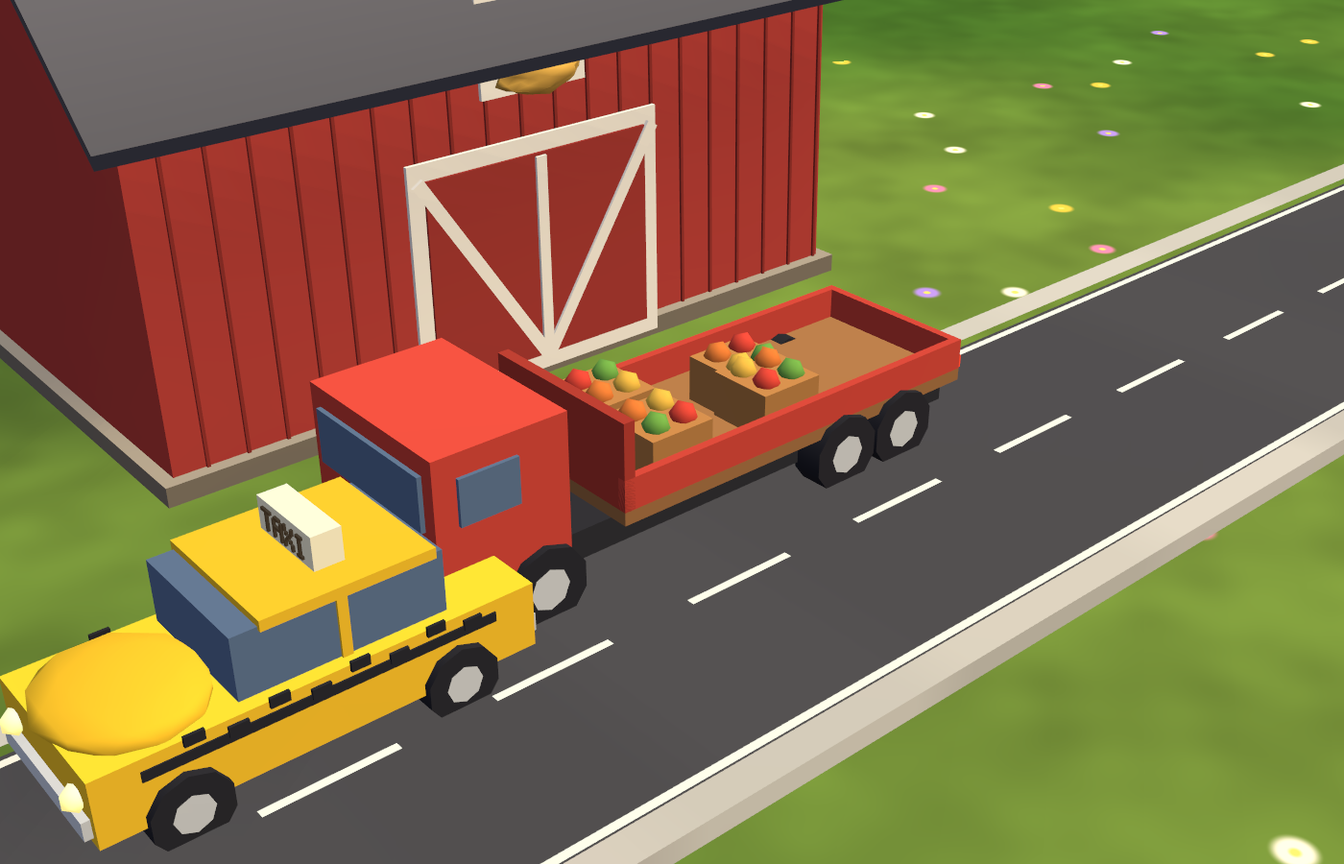
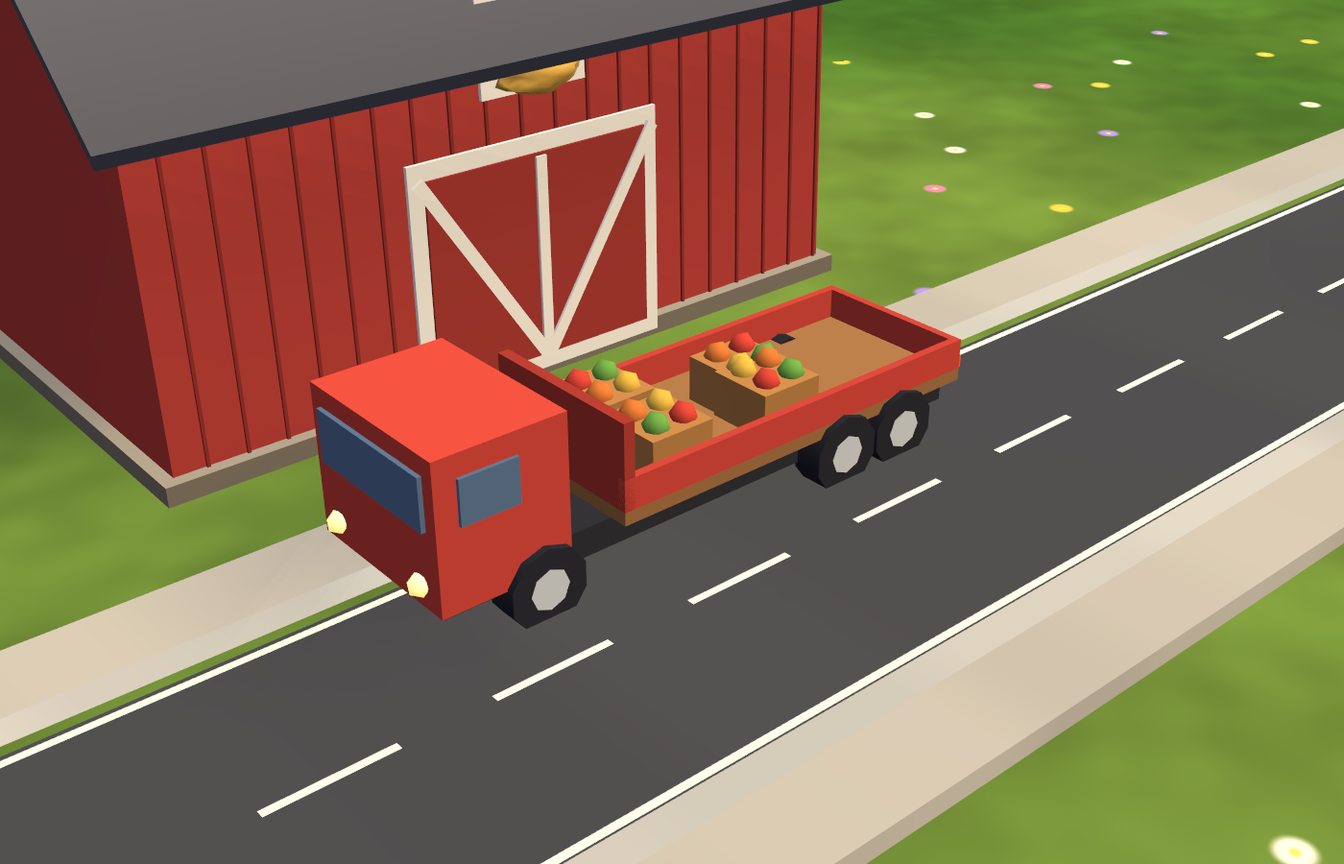
Pavements and zebra crossings: people walk on the pavement and cross at the zebra
- Streets and lanes have a 1.2 cm paved pavement beyond each kerb (highways don't); buildings and trees keep off it,
  and buildings beside a street line up behind it
- Walking: pavements and paths are easy, a carriageway is costly to walk along and crossed where it must be, a zebra
  crossing is easy - so routes keep to the pavement and cross at a zebra when one is near. Corners by a road are no
  longer rounded off across the carriageway
- Zebra crossing (Small): point at a street and it goes across it - white bars on the asphalt and a striped post with
  an orange globe at each kerb. Cars already stop for anyone on the road ahead
- Living test (a walk to a café across the street: 87 s on the pavement, 4 s on the zebra, 4 s in the road beside it)
  and a render (living-street-zebra.png)

Changed region(s): [[0.0, 0.56, 0.3993, 0.9956], [0.4607, 0.4978, 1.0, 1.0], [0.645, 0.1556, 1.0, 0.4044]]

diff --git a/Assets/Wonderland/Editor/WonderlandJourney.Living.cs b/Assets/Wonderland/Editor/WonderlandJourney.Living.cs
@@ -41,6 +41,8 @@ namespace Wonderland.Editor
             catch (Exception e) { Fail("Exception: " + e); }
             try { StrictGrid(); }
             catch (Exception e) { Fail("Exception: " + e); }
+            try { Pavements(); }
+            catch (Exception e) { Fail("Exception: " + e); }
             try { Soak(); }
             catch (Exception e) { Fail("Exception: " + e); }
             BuildGrid.Snap = true;
@@ -658,6 +660,40 @@ namespace Wonderland.Editor
             UnityEngine.Object.DestroyImmediate(w.gameObject);
         }
 
+        /// <summary>
+        /// Pavements and zebra crossings: streets have a pavement either side; someone walking to a café across the street
+        /// keeps to the pavement and crosses at the zebra crossing, hardly setting foot on the carriageway otherwise.
+        /// </summary>
+        private static void Pavements()
+        {
+            var w = Scratch("Pavements", 600f);
+            var t = w.Terrain;
+            w.BuildPath(Line(t, new Vector2(-0.7f, 0f), new Vector2(0.7f, 0f)), PathKind.Road);
+            w.PlaceHouse(new HouseInstance { x = -0.5f, z = -0.13f, rotation = 180f, variant = Catalog.Cottage });
+            string cafe = w.PlaceHouse(new HouseInstance { x = 0.5f, z = 0.13f, variant = Catalog.Cafe });
+            var z = w.ZebraSnap(t.PointAt(0.05f, 0.01f));
+            string zebra = z.HasValue ? w.PlaceHouse(z.Value) : "no street";
+            var pave = new Vector2(0f, -0.036f); var road = new Vector2(0f, 0.005f);
+            Check(cafe == null && zebra == null && w.Paths.Walking(pave) == 1 && w.Paths.Walking(road) == 2 && w.Paths.Walking(new Vector2(z.Value.x, 0.01f)) == 3,
+                $"A street with a pavement either side and a zebra crossing ({w.Paths.Walking(pave)} on the pavement, {w.Paths.Walking(road)} in the road, {(z.HasValue ? w.Paths.Walking(new Vector2(z.Value.x, 0.01f)) : -1)} on the zebra){cafe ?? ""}{zebra ?? ""}");
+            w.PlacePerson(new Vector3(-0.45f, 0f, -0.06f), 1, 888);
+            w.People.Grid.Complete(); w.Clock.Hour = 10f; w.People.Step(Dt);
+            int ci = w.Buildings.Houses.FindIndex(h => h.variant == Catalog.Cafe);
+            w.People.Deciders.Add(new SendOnce { Seed = 888, House = ci });
+            float onRoad = 0f, onPavement = 0f, onZebra = 0f, walking = 0f; var roadSpots = new List<string>();
+            Live(w, 150f, s =>
+            {
+                int i = w.People.IndexOfSeed(888);
+                if (i < 0 || w.People.StateOf(i) != PeopleSystem.Activity.Walking) return;
+                walking += Dt;
+                var at = w.People.PositionOf(i);
+                switch (w.Paths.Walking(at)) { case 1: onPavement += Dt; break; case 2: onRoad += Dt; if (roadSpots.Count < 12 && Mathf.Repeat(s, 1f) < Dt) roadSpots.Add($"({at.x:0.00}, {at.y:0.000})"); break; case 3: onZebra += Dt; break; }
+            });
+            Check(onZebra > 0f && onPavement > walking * 0.4f && onRoad < walking * 0.12f,
+                $"Walking to the café across the street they keep to the pavement and cross at the zebra ({onPavement:0} s on the pavement, {onZebra:0.0} s on the zebra, {onRoad:0.0} s in the road, of {walking:0} s walking; in the road at {string.Join(" ", roadSpots)})");
+            UnityEngine.Object.DestroyImmediate(w.gameObject);
+        }
+
         /// <summary>The living world's buildings in a row, fronts to the camera (docs/renders/living-buildings*.png).</summary>
         public static void LivingGallery()
         {
@@ -811,6 +847,19 @@ namespace Wonderland.Editor
             for (int k = 0; k < 120; k++) foreach (var ps in ww.Streams.GetComponentsInChildren<ParticleSystem>()) ps.Simulate(1f / 30f, true, false);
             WonderlandRenders.Capture(cam, "living-river-waterfall.png", 1400, 900);
             Debug.Log($"Living renders: water ({ww.Streams.Waterfalls} falls)");
+            // A street with its pavements and a zebra crossing, villagers on the pavement.
+            var sw = Scratch("Street render", 240f);
+            sw.Sky.Shown = false;
+            var st = sw.Terrain;
+            sw.BuildPath(Line(st, new Vector2(-0.6f, 0f), new Vector2(0.6f, 0f)), PathKind.Road);
+            foreach (var (x, z, r, v) in new[] { (-0.2f, 0.13f, 0f, Catalog.Bakery), (0.05f, 0.13f, 0f, Catalog.Cafe), (0.3f, 0.13f, 0f, Catalog.Grocer), (-0.15f, -0.13f, 180f, Catalog.Townhouse), (0.15f, -0.13f, 180f, Catalog.Cottage) })
+                sw.PlaceHouse(new HouseInstance { x = x, z = z, rotation = r, variant = v });
+            var zc = sw.ZebraSnap(st.PointAt(0f, 0f)); if (zc.HasValue) sw.PlaceHouse(zc.Value);
+            for (int k = 0; k < 4; k++) sw.PlacePerson(new Vector3(-0.15f + k * 0.08f, 0f, k % 2 == 0 ? -0.038f : 0.038f), k, 900 + k);
+            var focus2 = sw.transform.TransformPoint(st.PointAt(0f, 0f));
+            cam.transform.position = focus2 + new Vector3(-0.04f, 0.17f, -0.07f);
+            cam.transform.rotation = Quaternion.LookRotation(focus2 - cam.transform.position);
+            WonderlandRenders.Capture(cam, "living-street-zebra.png", 1400, 900);
             if (Application.isBatchMode) EditorApplication.Exit(0);
         }
     }

diff --git a/Assets/Wonderland/Scripts/World/PathSystem.Roads.cs b/Assets/Wonderland/Scripts/World/PathSystem.Roads.cs
@@ -150,8 +150,23 @@ namespace Wonderland
             var normal = Vector2.Dot(p - q, right) >= 0f ? right : -right;
             float s = Vector2.Dot(q, t);
             q += t * (Mathf.Round(s / BuildGrid.Size) * BuildGrid.Size - s);
-            at = q + normal * (hw + depth + 0.006f);
+            at = q + normal * (hw + Pavement(l.kind) + depth + 0.006f);
             yaw = Mathf.Atan2(normal.x, normal.y) * Mathf.Rad2Deg;   // (a building's front is its -Z: it looks back along -normal, at the road)
+            return true;
+        }
+
+        /// <summary>The point on the street nearest <paramref name="p"/> (within reach) and the way along it: a crossing's yaw.</summary>
+        public bool AcrossRoad(Vector2 p, out Vector2 at, out float yaw)
+        {
+            at = p; yaw = 0f;
+            float d = Query(p, 0.08f, k => IsCarWay(Lines[k].kind) && Lines[k].kind != (int)PathKind.Highway, out int li);
+            if (li < 0 || d > HalfWidth(Lines[li].kind) + 0.04f) return false;
+            var l = Lines[li];
+            int best = 0; float bestD = float.MaxValue;
+            for (int i = 0; i < l.points.Count; i++) { float q2 = (l.points[i] - p).sqrMagnitude; if (q2 < bestD) { bestD = q2; best = i; } }
+            var t = Tangent(l, best);
+            at = l.points[best];
+            yaw = Mathf.Atan2(t.x, t.y) * Mathf.Rad2Deg;   // (its local Z along the street, its long side - local X - across it)
             return true;
         }
 
@@ -353,6 +368,7 @@ namespace Wonderland
         /// <summary>A point along a road for its mesh: where, which way, how high the (flat) road surface is there, how far along.</summary>
         private struct RoadSample { public Vector2 P, T; public float Y, S; public bool Junction; }
 
+        private static readonly Color Paving = new(0.78f, 0.75f, 0.7f);
         private const float KerbHeight = 0.0012f, Skirt = 0.004f, RoadLift = 0.0016f;
 
         /// <summary>
@@ -417,13 +433,15 @@ namespace Wonderland
             float hw = HalfWidth(l.kind);
             bool highway = l.kind == (int)PathKind.Highway;
             var samples = RoadSamples(l);
-            // Cross-section strips, left to right: skirt, kerb top, kerb face, asphalt, kerb face, kerb top, skirt.
-            // (offset, height above the road, and the next corner's) - kerbs drop to road level inside junctions.
+            // Cross-section strips, left to right: skirt, pavement, kerb top, kerb face, asphalt, kerb face, kerb top,
+            // pavement, skirt (offset, height above the road, and the next corner's) - kerbs drop to road level inside
+            // junctions. Streets and lanes have a pavement either side for people to walk on; highways don't.
+            float pw = Pavement(l.kind);
             (float x0, float h0, float x1, float h1, bool kerb)[] strips =
             {
-                (-hw, -Skirt, -hw, KerbHeight, true), (-hw, KerbHeight, -hw + KerbWidth, KerbHeight, true), (-hw + KerbWidth, KerbHeight, -hw + KerbWidth, 0f, true),
+                (-hw - pw, -Skirt, -hw - pw, KerbHeight, true), (-hw - pw, KerbHeight, -hw, KerbHeight, true), (-hw, KerbHeight, -hw + KerbWidth, KerbHeight, true), (-hw + KerbWidth, KerbHeight, -hw + KerbWidth, 0f, true),
                 (-hw + KerbWidth, 0f, hw - KerbWidth, 0f, false),
-                (hw - KerbWidth, 0f, hw - KerbWidth, KerbHeight, true), (hw - KerbWidth, KerbHeight, hw, KerbHeight, true), (hw, KerbHeight, hw, -Skirt, true),
+                (hw - KerbWidth, 0f, hw - KerbWidth, KerbHeight, true), (hw - KerbWidth, KerbHeight, hw, KerbHeight, true), (hw, KerbHeight, hw + pw, KerbHeight, true), (hw + pw, KerbHeight, hw + pw, -Skirt, true),
             };
             int count = samples.Count, last = l.closed ? count : count - 1;
             foreach (var (x0, h0, x1, h1, kerb) in strips)
@@ -436,7 +454,8 @@ namespace Wonderland
                     bool flat = sm.Junction;   // inside a junction: all asphalt at road level
                     float a = flat ? Mathf.Min(h0, 0f) : h0, c = flat ? Mathf.Min(h1, 0f) : h1;
                     float y = sm.Y + RoadLift;
-                    var colour = kerb && !flat ? Pal.Shade(KerbStone, 0.95f + 0.1f * Noise.Hash(i / 4, (int)(x0 * 1000f), 7)) : Pal.Shade(Asphalt, 0.97f + 0.05f * Noise.Hash(i / 3, 1, 3));
+                    bool paving = Mathf.Abs(x0) >= hw - 1e-5f && Mathf.Abs(x1) >= hw - 1e-5f && pw > 0f;
+                    var colour = kerb && !flat ? (paving ? Pal.Shade(Paving, 0.94f + 0.08f * Noise.Hash(i / 2, (int)(x0 * 1000f), 11)) : Pal.Shade(KerbStone, 0.95f + 0.1f * Noise.Hash(i / 4, (int)(x0 * 1000f), 7))) : Pal.Shade(Asphalt, 0.97f + 0.05f * Noise.Hash(i / 3, 1, 3));
                     var q0 = sm.P + right * x0; var q1 = sm.P + right * x1;
                     var p0 = new Vector3(q0.x, y + a, q0.y); var p1 = new Vector3(q1.x, y + c, q1.y);
                     var along = new Vector3(sm.T.x, 0f, sm.T.y);

diff --git a/Assets/Wonderland/Scripts/World/WonderlandWorld.cs b/Assets/Wonderland/Scripts/World/WonderlandWorld.cs
@@ -128,6 +128,7 @@ namespace Wonderland
             Traffic = Child<TrafficSystem>("Traffic");
             Traffic.Init(this, materials.Lit);
             Traffic.FareAlive = seed => People.IndexOfSeed(seed) >= 0;
+            Paths.OnCrossing = OnZebra;
             Traffic.Operating = house => People.OnTractor(house);
             Traffic.FarmerStyle = house => People.WorkerOf(house).style;
             Traffic.FarmerSeed = house => People.WorkerOf(house).seed;
@@ -1140,13 +1141,14 @@ namespace Wonderland
             if (boat >= 0) return Boats.Validate(new Vector2(h.x, h.z), h.rotation + 180f, boat);
             if (h.variant == Catalog.Jetty && ValidateJetty(h) is { } jetty) return jetty;
             if (h.variant == Catalog.Harbour && ValidateHarbour(h) is { } harbour) return harbour;
+            if (h.variant == Catalog.Zebra && !(Paths.WayDistance(new Vector2(h.x, h.z), out int zk) < -0.01f && PathSystem.IsCarWay(zk))) return "A zebra crossing goes across a street";
             string error = (Catalog.IsStation(h.variant) ? ValidateStation(h) : null) ?? Buildings.Validate(h, ignore, p => Track.DistanceTo(new Vector3(p.x, 0f, p.y)));
             if (error == null)
                 foreach (var p in BuildingSystem.FootprintSamples(h))
                 {
                     if (Streams.IsWet(p, 0.01f)) return "That's a stream";
                     if (Paths.NearBarrier(p, 0.004f)) return "That's a fence";
-                    if (!Catalog.Get(h.variant).Small && Paths.WayDistance(p, out int kind) < -0.004f) return kind == 0 ? "That's the road" : "That's the path";
+                    if (!Catalog.Get(h.variant).Small && Paths.WayDistance(p, out int kind) < PathSystem.Pavement(kind) - 0.004f) return kind == 0 ? "That's the road (and its pavement)" : "That's the path";
                 }
             return error;
         }
@@ -1194,6 +1196,27 @@ namespace Wonderland
                     }
             }
             return null;
+        }
+
+        /// <summary>A zebra crossing where the pointer is, snapped across the street nearest it (null: no street near).</summary>
+        public HouseInstance? ZebraSnap(Vector3 local)
+        {
+            var p = new Vector2(local.x, local.z);
+            if (!Paths.AcrossRoad(p, out var at, out float yaw)) return null;
+            return new HouseInstance { x = at.x, z = at.y, rotation = yaw, variant = Catalog.Zebra };
+        }
+
+        /// <summary>Whether a point is on a zebra crossing.</summary>
+        public bool OnZebra(Vector2 p)
+        {
+            foreach (var h in Buildings.Houses)
+            {
+                if (h.variant != Catalog.Zebra) continue;
+                var d = Quaternion.Euler(0f, -h.rotation, 0f) * new Vector3(p.x - h.x, 0f, p.y - h.z);
+                var half = Catalog.Get(Catalog.Zebra).Half;
+                if (Mathf.Abs(d.x) <= half.x && Mathf.Abs(d.z) <= half.y + 0.006f) return true;
+            }
+            return false;
         }
 
         /// <summary>A harbour stands on the shore, its front to open water deep and wide enough for a ship to moor.</summary>

diff --git a/Assets/Wonderland/Scripts/World/WalkGrid.cs b/Assets/Wonderland/Scripts/World/WalkGrid.cs
@@ -17,12 +17,12 @@ namespace Wonderland
     public sealed class WalkGrid
     {
         public const float Cell = 0.025f;
-        private const byte Open = 1, East = 2, North = 4, Way = 8;
-        private const float WayCost = 0.5f;
+        private const byte Open = 1, East = 2, North = 4, Way = 8, Road = 16, Crossing = 32;
+        private const float WayCost = 0.5f, RoadCost = 3.5f;   // paths and pavements are easy; a carriageway is crossed where it must be (a zebra is easy)
 
         private readonly Func<Vector2, bool> walkable;
         private readonly Func<Vector2, Vector2, bool> barrier;
-        private readonly Func<Vector2, bool> onWay;
+        private readonly Func<Vector2, int> surface;
         private readonly Func<Rect> bounds;
 
         // The finished grid (queries) and the one being built.
@@ -44,9 +44,10 @@ namespace Wonderland
         public float LastBuildMs { get; private set; }
         private float buildMs;
 
-        public WalkGrid(Func<Vector2, bool> walkable, Func<Vector2, Vector2, bool> barrier, Func<Vector2, bool> onWay, Func<Rect> bounds)
+        /// <param name="surface">What a point is underfoot: 0 nothing, 1 a path or pavement, 2 a carriageway, 3 a zebra crossing.</param>
+        public WalkGrid(Func<Vector2, bool> walkable, Func<Vector2, Vector2, bool> barrier, Func<Vector2, int> surface, Func<Rect> bounds)
         {
-            this.walkable = walkable; this.barrier = barrier; this.onWay = onWay; this.bounds = bounds;
+            this.walkable = walkable; this.barrier = barrier; this.surface = surface; this.bounds = bounds;
         }
 
         /// <summary>The world changed: start again (a rebuild already under way restarts).</summary>
@@ -96,7 +97,8 @@ namespace Wonderland
             var c = CentreOf(bx0, bz0, x, z);
             if (!walkable(c)) return;
             byte f = Open;
-            if (onWay(c)) f |= Way;
+            int s = surface(c);
+            if (s == 1) f |= Way; else if (s == 2) f |= Road; else if (s == 3) f |= Crossing | Way;
             // A link to the east / north neighbour when the halfway point is walkable and no fence is in between; the
             // neighbour's own centre is checked when it is classified (both must be open for the link to count).
             if (x + 1 < bnx && walkable(c + new Vector2(Cell * 0.5f, 0f)) && !barrier(c, c + new Vector2(Cell, 0f))) f |= East;
@@ -228,7 +230,7 @@ namespace Wonderland
         private readonly List<int> cells = new();
         public int LastExpanded { get; private set; }
 
-        private float CostOf(int c) => (flags[c] & Way) != 0 ? WayCost : 1f;
+        private float CostOf(int c) => (flags[c] & Way) != 0 ? WayCost : (flags[c] & Road) != 0 ? RoadCost : 1f;
 
         /// <summary>
         /// A walking route (waypoints after <paramref name="from"/>, ending at <paramref name="to"/>), or null when there

diff --git a/Assets/Wonderland/Scripts/World/PeopleSystem.cs b/Assets/Wonderland/Scripts/World/PeopleSystem.cs
@@ -113,7 +113,7 @@ namespace Wonderland
         public void Init(WonderlandWorld owner, Material lit)
         {
             world = owner; material = lit;
-            Grid = new WalkGrid(Walkable, (a, b) => world.Paths.CrossesBarrier(a, b), p => world.Paths.WayDistance(p, out _) < 0f, GridBounds);
+            Grid = new WalkGrid(Walkable, (a, b) => world.Paths.CrossesBarrier(a, b), p => world.Paths.Walking(p), GridBounds);
         }
 
         public void SetPeople(IEnumerable<PersonInstance> people)
@@ -1099,7 +1099,7 @@ namespace Wonderland
             var din = w0 - a.Position; var dout = w1 - w0;
             if (din.sqrMagnitude < 1e-8f || dout.sqrMagnitude < 1e-8f) return true;
             if (Vector2.Dot(din.normalized, dout.normalized) < 0.5f) return false;
-            return Walkable(Vector2.Lerp(a.Position, w1, 0.5f)) && !world.Paths.CrossesBarrier(a.Position, w1);
+            return Walkable(Vector2.Lerp(a.Position, w1, 0.5f)) && !world.Paths.CrossesBarrier(a.Position, w1) && !IntoRoad(w0, a.Position, w1);
         }
 
         /// <summary>
@@ -1117,11 +1117,22 @@ namespace Wonderland
             {
                 Vector2 prev = pts[i - 1], at = pts[i], next = pts[i + 1];
                 var q = Vector2.Lerp(at, prev, 0.3f); var r = Vector2.Lerp(at, next, 0.3f);
-                bool ok = Walkable(q) && Walkable(r) && !world.Paths.CrossesBarrier(q, r) && (soft.Count == 0 || !world.Paths.CrossesBarrier(soft[^1], q));
+                bool ok = Walkable(q) && Walkable(r) && !world.Paths.CrossesBarrier(q, r) && (soft.Count == 0 || !world.Paths.CrossesBarrier(soft[^1], q))
+                    && !IntoRoad(at, q, r);   // (a corner by a road isn't cut across the carriageway: people cross at the crossing)
                 if (ok) { soft.Add(q); soft.Add(r); } else soft.Add(at);
             }
             soft.Add(pts[^1]);
             return soft;
+        }
+
+        /// <summary>Whether cutting the corner at <paramref name="at"/> from q to r would take someone across a carriageway.</summary>
+        private bool IntoRoad(Vector2 at, Vector2 q, Vector2 r)
+        {
+            if (world.Paths.Lines.Count == 0) return false;
+            int s = world.Paths.Walking(at);
+            for (float t = 0.25f; t < 1f; t += 0.25f)
+                if (world.Paths.Walking(Vector2.Lerp(q, r, t)) == 2 && s != 2) return true;
+            return s == 3 || world.Paths.Walking(q) == 3 || world.Paths.Walking(r) == 3;   // (a zebra is crossed straight)
         }
 
         private void Walk(Agent a, float dt)

diff --git a/Assets/Wonderland/Scripts/Assets/Catalog.cs b/Assets/Wonderland/Scripts/Assets/Catalog.cs
@@ -104,7 +104,7 @@ namespace Wonderland
             LogPile = 32, Lamp = 33, Bench = 34, FlowerBed = 35, Well = 36, Statue = 37, Signpost = 38, Picnic = 39, HayBales = 40,
             Park = 41, Museum = 42, Restaurant = 43, Disco = 44, Hospital = 45, Police = 46, Factory = 47, Football = 48, Studio = 49,
             Camera = 50, Balloon = 51, Jetty = 52, RowingBoat = 53, SailingBoat = 54, Steamer = 55, Halt = 56, TaxiRank = 57,
-            Sawmill = 58, FurnitureShop = 59, IceCream = 60, Pub = 61, Hotel = 62, PostOffice = 63, Letterbox = 64, CarPark = 65, FreightYard = 66, Harbour = 67, Zoo = 68, FairyCastle = 69, Stadium = 70;
+            Sawmill = 58, FurnitureShop = 59, IceCream = 60, Pub = 61, Hotel = 62, PostOffice = 63, Letterbox = 64, CarPark = 65, FreightYard = 66, Harbour = 67, Zoo = 68, FairyCastle = 69, Stadium = 70, Zebra = 71;
 
         /// <summary>A station of any size (the big one, or a country halt): trains stop beside it.</summary>
         public static bool IsStation(int variant) => variant == Station || variant == Halt || variant == FreightYard;
@@ -248,6 +248,8 @@ namespace Wonderland
                     Spots = new[] { new ActivitySpot(-0.06f, -0.105f, SpotKind.Watch, 0f), new ActivitySpot(-0.02f, -0.106f, SpotKind.Watch, 0f), new ActivitySpot(0.02f, -0.106f, SpotKind.Watch, 0f),
                         new ActivitySpot(0.06f, -0.105f, SpotKind.Watch, 0f), new ActivitySpot(-0.04f, 0.106f, SpotKind.Watch, 180f), new ActivitySpot(0.04f, 0.106f, SpotKind.Watch, 180f) } },
             };
+            list.Add(new() { Name = "Zebra crossing", Short = "Zebra", Category = PlaceCategory.Small, Half = new Vector2(0.034f, 0.011f), Height = 0.04f, Pad = false, Small = true, Styles = 1,
+                Hint = "point at a street: it goes across it - people cross here, cars stop for them" });
             for (int i = 0; i < list.Count; i++) list[i].Id = i;
             // What each place is for: the needs it satisfies decide who comes and when (see Needs).
             foreach (var b in list)

diff --git a/Assets/Wonderland/Scripts/Assets/HouseFactory.Living.cs b/Assets/Wonderland/Scripts/Assets/HouseFactory.Living.cs
@@ -17,6 +17,7 @@ namespace Wonderland
                 case Catalog.Sawmill: return SawmillShed(b, ref rng);
                 case Catalog.Letterbox: return PillarBox(b);
                 case Catalog.CarPark: return CarParkBays(b);
+                case Catalog.Zebra: return ZebraStripes(b);
                 case Catalog.FreightYard: return FreightYardPad(b, ref rng);
                 case Catalog.Harbour: return HarbourQuay(b, ref rng);
                 case Catalog.Zoo: return ZooGrounds(b, ref rng);
@@ -180,6 +181,24 @@ namespace Wonderland
         }
 
         public const int ParkingBays = 8;
+
+        /// <summary>
+        /// A zebra crossing across a street (local X across it, Z along it): white bars on the asphalt, a hair above the
+        /// road, and a black-and-white post with an orange globe on the pavement at each end.
+        /// </summary>
+        private static float ZebraStripes(MeshBuilder b)
+        {
+            const float lift = 0.0021f, half = 0.026f;
+            for (float x = -half + 0.002f; x <= half - 0.002f + 1e-4f; x += 0.0075f)
+                b.AddBox(new Vector3(x, lift, 0f), new Vector3(0.004f, 0.0003f, 0.018f), Pal.FlowerWhite);
+            foreach (int s in new[] { -1, 1 })
+            {
+                var post = new Vector3(s * 0.037f, 0.0016f, 0.009f);
+                for (int k = 0; k < 6; k++) b.AddCylinder(post + Vector3.up * k * 0.004f, 0.0007f, 0.0007f, 0.004f, 6, k % 2 == 0 ? Pal.TrainBlack : Pal.FlowerWhite, k % 2 == 0 ? Pal.TrainBlack : Pal.FlowerWhite, false);
+                b.AddBlob(post + Vector3.up * 0.026f, Vector3.one * 0.0022f, 1, 0f, 3 + s, (_, __) => Pal.Glow(Pal.Hex("#F29A2E")));
+            }
+            return 0.03f;
+        }
 
         /// <summary>
         /// The freight yard (its front, -Z, to the railway): a concrete pad, the rail the crane rolls along, a stack of

diff --git a/Assets/Wonderland/Scripts/Interaction/ToolController.cs b/Assets/Wonderland/Scripts/Interaction/ToolController.cs
@@ -1098,7 +1098,7 @@ namespace Wonderland
                 if (carrying && !heldByTrigger && input.GripUp) { DropCarried(); Say("Point at the land to put it down - it's back where it was", 4f); Haptic(0.7f, 0.1f); RefreshOptions(); }
                 return;
             }
-            if (BuildGrid.Snap && !Catalog.IsStation(HouseVariant) && HouseVariant is not (Catalog.Harbour or Catalog.Jetty))
+            if (BuildGrid.Snap && !Catalog.IsStation(HouseVariant) && HouseVariant is not (Catalog.Harbour or Catalog.Jetty or Catalog.Zebra))
             {
                 // On the grid: beside a road, facing it and lined up along it; elsewhere on the grid, in quarter turns.
                 var bp = Catalog.Get(HouseVariant);
@@ -1109,7 +1109,14 @@ namespace Wonderland
             }
             var candidate = new HouseInstance { x = local.x, z = local.z, rotation = houseRotation, variant = HouseVariant, style = houseStyle };
             string error;
-            if (HouseVariant is Catalog.Harbour or Catalog.Jetty)
+            if (HouseVariant == Catalog.Zebra)
+            {
+                // A zebra crossing goes across the street nearest the pointer.
+                var snapped = World.ZebraSnap(local);
+                if (snapped.HasValue) { candidate = snapped.Value; local = new Vector3(candidate.x, local.y, candidate.z); houseRotation = candidate.rotation; error = World.ValidateHouse(candidate); }
+                else error = "Point at a street - the crossing goes across it";
+            }
+            else if (HouseVariant is Catalog.Harbour or Catalog.Jetty)
             {
                 // A harbour or a landing stage finds the shore: it turns to face the water and settles on the bank.
                 var snapped = World.ShoreSnap(local, HouseVariant, houseStyle);

diff --git a/Assets/Wonderland/Scripts/World/PathSystem.cs b/Assets/Wonderland/Scripts/World/PathSystem.cs
@@ -167,6 +167,26 @@ namespace Wonderland
         }
 
         /// <summary>Distance to the nearest way (road, lane, path, trail), and its kind.</summary>
+        /// <summary>The pavement beyond each kerb of a street or lane (where people walk); none on a highway or a path.</summary>
+        public static float Pavement(int kind) => kind is (int)PathKind.Road or (int)PathKind.Lane ? 0.012f : 0f;
+
+        /// <summary>Zebra crossings (set by the world): whether a point is on one.</summary>
+        public Func<Vector2, bool> OnCrossing;
+
+        /// <summary>What a point is to someone on foot: 0 nothing, 1 a path or a pavement, 2 a road's carriageway, 3 a zebra crossing.</summary>
+        public int Walking(Vector2 p)
+        {
+            float d = Query(p, 0.09f, li => IsWay(Lines[li].kind), out int line);
+            if (line < 0) return 0;
+            int kind = Lines[line].kind;
+            float hw = HalfWidth(kind);
+            if (!IsCarWay(kind)) return d < hw ? 1 : 0;
+            if (d < hw - RoadKerb * 0.5f) return OnCrossing != null && OnCrossing(p) ? 3 : 2;
+            return d < hw + Pavement(kind) + 0.004f ? 1 : 0;
+        }
+
+        private const float RoadKerb = 0.0045f;
+
         public float WayDistance(Vector2 p, out int kind)
         {
             kind = -1;
@@ -180,7 +200,7 @@ namespace Wonderland
         public bool Covers(Vector2 p, float margin)
         {
             float d = Query(p, 0.03f + margin, _ => true, out int line);
-            return line >= 0 && d < HalfWidth(Lines[line].kind) + margin;
+            return line >= 0 && d < HalfWidth(Lines[line].kind) + Pavement(Lines[line].kind) + margin;
         }
 
         public bool NearBarrier(Vector2 p, float margin)

diff --git a/Assets/Wonderland/Editor/WonderlandJourney.cs b/Assets/Wonderland/Editor/WonderlandJourney.cs
@@ -892,7 +892,7 @@ namespace Wonderland.Editor
             var route = w.Paths.Route(new Vector2(-0.68f, -0.45f), new Vector2(-0.08f, -0.11f));
             Check(route != null && route.Count > 5, $"Villagers find a walking route along the road and the path ({route?.Count ?? 0} waypoints)");
             string onRoad = w.ValidateHouse(new HouseInstance { x = -0.5f, z = -0.45f, variant = Catalog.Cottage });
-            Check(onRoad == "That's the road", $"Houses are not built on the road (\"{onRoad}\")");
+            Check(onRoad != null && onRoad.StartsWith("That's the road"), $"Houses are not built on the road (\"{onRoad}\")");
             string lampError = w.ValidateHouse(new HouseInstance { x = -0.55f, z = -0.415f, variant = Catalog.Lamp });
             Check(lampError == null, "A street lamp may stand at the roadside" + (lampError == null ? "" : $" (\"{lampError}\")"));
             // A hiking trail and a hiker.
